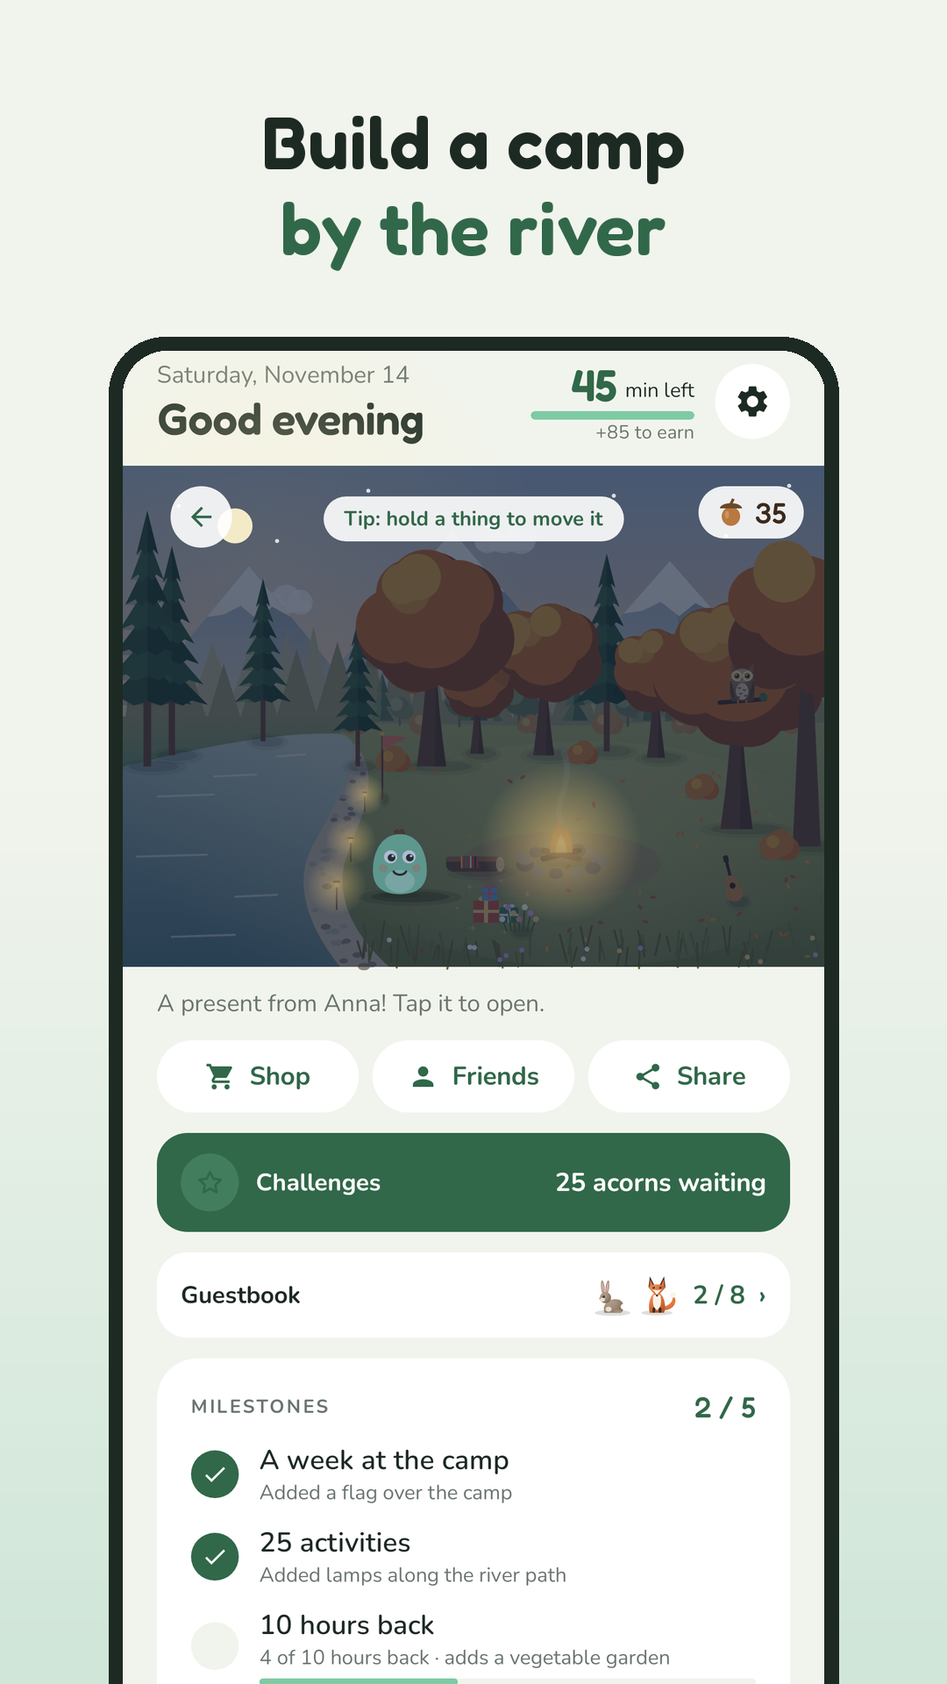
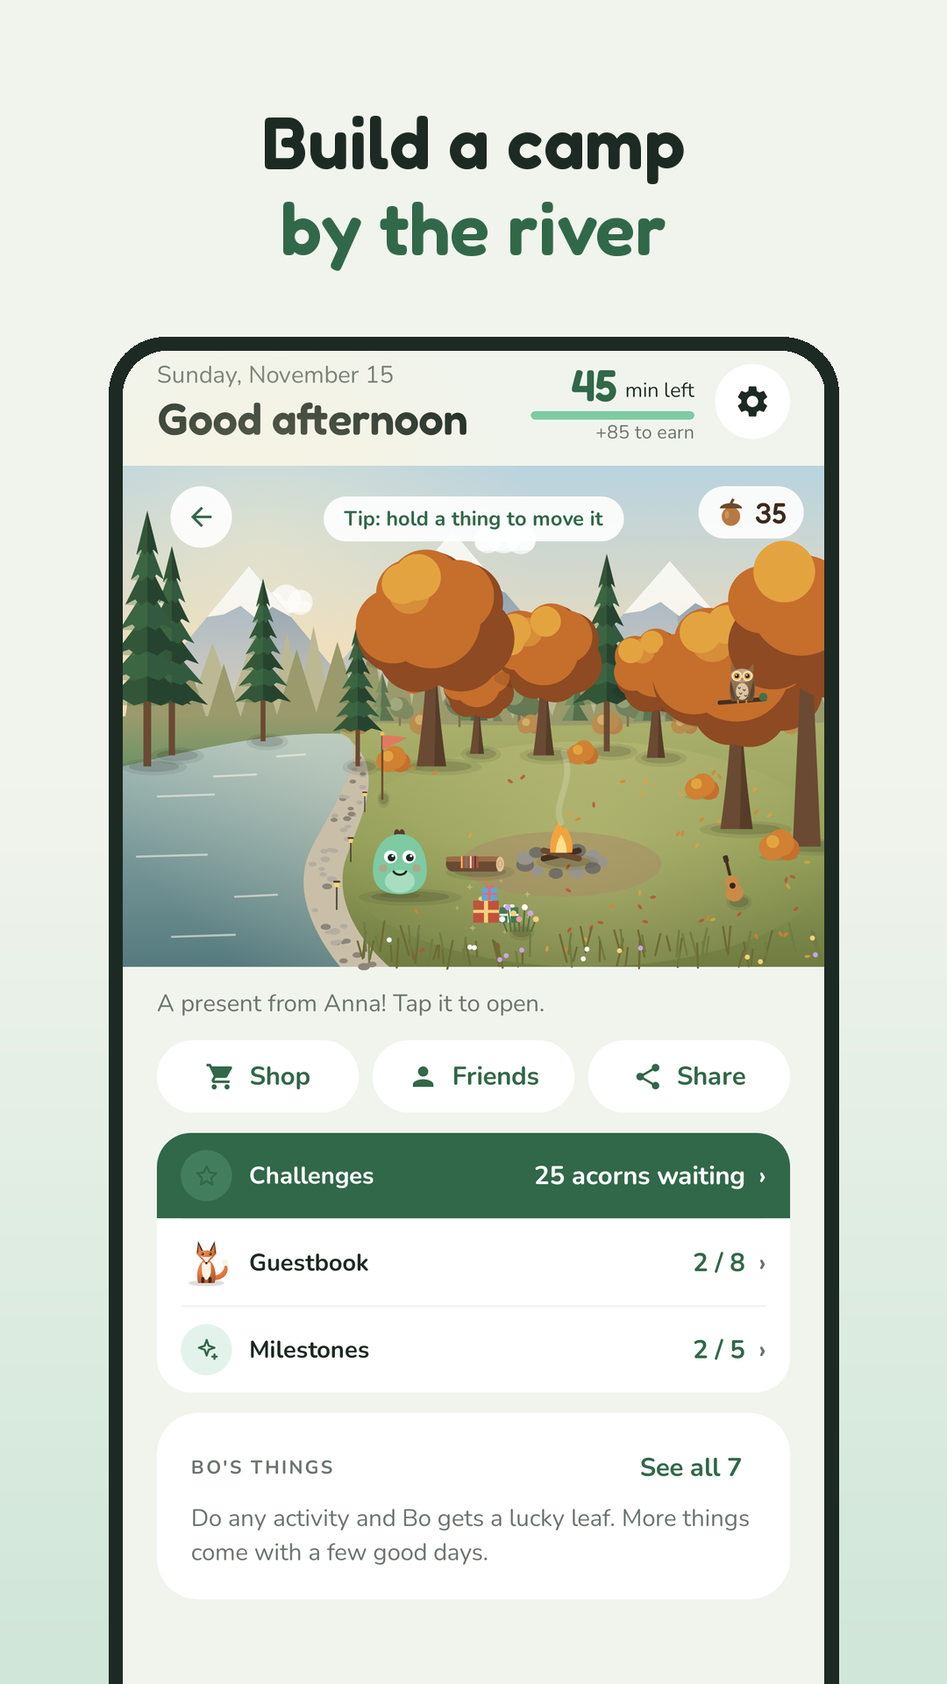
Camp: a jump onto the raft (crouch, arc, landing that rocks it); tea dipped from the kettle by the fire; no flash where Bo is headed; challenges, guestbook and milestones in one compact card; paper laid on the crowns. Week chart: tap a day for its minutes. Your time fits one screen. A timer workout 
Claude-Session: https://claude.ai/code/session_01MTi4pGbYj2mqQd4T7JQAzY

diff --git a/app/src/main/java/app/tend/ui/CampUse.kt b/app/src/main/java/app/tend/ui/CampUse.kt
@@ -284,7 +284,9 @@ fun DrawScope.useAnchor(use: InUse, placed: Map<Int, String>, here: Offset? = nu
         "act_read", "act_stretch", "act_hearts", "act_tidy", "act_cheer" -> home
         "guitar", "campfire" -> if (use.spot < 0) (if (use.thing == "campfire") fire + Offset(-u * 0.21f, u * 0.03f) else home) else
             if (use.thing == "campfire" && bench) seat + Offset(0f, -u * 0.012f) else if (use.thing == "campfire") fire + Offset(-u * 0.21f, u * 0.03f) else p
-        "kettle", "pizza_oven" ->
+        // Tea: right up to the fire, within reach of the kettle over it.
+        "kettle" -> fire + Offset(-u * 0.09f, u * 0.025f)
+        "pizza_oven" ->
             // Beside the fire pit, clear of the stones and the flames (or on the bench, if there is one).
             if (bench) seat + Offset(0f, -u * 0.012f) else fire + Offset(-u * 0.21f, u * 0.03f)
         // Fetched first: to the woodpile for a log, then over to the fire; to the rod, then to the bank.
@@ -302,7 +304,9 @@ fun DrawScope.useAnchor(use: InUse, placed: Map<Int, String>, here: Offset? = nu
         "treehouse" -> Offset(p.x + u * 0.062f, u * 0.6f - u * 0.42f * 0.4f - u * 0.004f) // on the platform, in the tree, beside the little house
         // Out on the water, and drifting back to the mooring before stepping off.
         // Pushing off from the bank, out a little and back.
-        "canoe", "raft" -> p + Offset(-(1f - kotlin.math.cos(use.t * 0.7f)) / 2f * w * 0.08f * (if (use.end > 0f) ((use.end - Uses.STEP - use.t) / 1.5f).coerceIn(0f, 1f) else 1f), -u * 0.02f)
+        // Landing on it rocks it a little (down, up, settling).
+        "canoe", "raft" -> p + Offset(-(1f - kotlin.math.cos(use.t * 0.7f)) / 2f * w * 0.08f * (if (use.end > 0f) ((use.end - Uses.STEP - use.t) / 1.5f).coerceIn(0f, 1f) else 1f),
+            -u * 0.02f + u * 0.012f * kotlin.math.exp(-use.t * 2.5f) * kotlin.math.sin(use.t * 11f))
         "rocking_chair" -> p + Offset(0f, -u * 0.012f * k)
         "wind_chimes", "bird_feeder" -> Offset(w * 0.64f, h * 0.71f)
         "dock" -> p + Offset(-u * 0.04f, u * 0.014f) // on the planks, near the end
@@ -481,9 +485,20 @@ fun DrawScope.drawUse(
                     }
                 }
                 "kettle" -> {
-                    drawRoundRect(Color(0xFF2A6F6B), hand + Offset(-u * 0.008f, -u * 0.014f), Size(u * 0.016f, u * 0.016f), CornerRadius(u * 0.003f))
-                    drawArc(Color(0xFF2A6F6B), -90f, 180f, false, hand + Offset(u * 0.005f, -u * 0.01f), Size(u * 0.01f, u * 0.008f), style = Stroke(u * 0.002f))
-                    rising(t, hand + Offset(0f, -u * 0.02f), u * 0.006f, every = 1.1f) { at, a -> drawCircle(Color.White.copy(alpha = 0.45f * a), u * 0.005f, at) }
+                    // The mug out to the kettle over the fire, dipped (tipped in, a puff of steam), back, then sipped.
+                    val mouth = fire + Offset(-u * 0.004f, -u * 0.072f)
+                    fun ease(k: Float) = k.coerceIn(0f, 1f).let { it * it * (3 - 2 * it) }
+                    val out = ease(t / 1.1f) - ease((t - 2.1f) / 0.9f)
+                    val mug = hand + (mouth - hand) * out
+                    val tip = if (t in 1.1f..2.1f) sin((t - 1.1f) * PI.toFloat()) * 55f else 0f
+                    drawLine(Color(0xFF8FD1B0), hand + Offset(-u * 0.006f, 0f), mug + Offset(-u * 0.006f, u * 0.004f), strokeWidth = u * 0.006f, cap = StrokeCap.Round) // the arm
+                    rotate(tip, mug) {
+                        drawRoundRect(Color(0xFF2A6F6B), mug + Offset(-u * 0.008f, -u * 0.014f), Size(u * 0.016f, u * 0.016f), CornerRadius(u * 0.003f))
+                        drawArc(Color(0xFF2A6F6B), -90f, 180f, false, mug + Offset(u * 0.005f, -u * 0.01f), Size(u * 0.01f, u * 0.008f), style = Stroke(u * 0.002f))
+                    }
+                    if (t in 1.3f..2.4f) for (i in 0 until 3) drawCircle(Color.White.copy(alpha = 0.5f * (1f - (t - 1.3f) / 1.1f)), u * (0.006f + i * 0.003f), mouth + Offset(u * 0.004f * i, -u * (0.02f + 0.012f * i + (t - 1.3f) * 0.02f)))
+                    if (t > 3f) rising(t, hand + Offset(0f, -u * 0.02f), u * 0.006f, every = 1.1f) { at, a -> drawCircle(Color.White.copy(alpha = 0.45f * a), u * 0.005f, at) }
+                    lights += Light(fire + Offset(0f, -u * 0.05f), u * 0.16f, 0.7f)
                 }
                 "pizza_oven" -> {
                     drawPath(Path().apply { moveTo(hand.x - u * 0.01f, hand.y); lineTo(hand.x + u * 0.018f, hand.y - u * 0.008f); lineTo(hand.x + u * 0.006f, hand.y + u * 0.016f); close() }, Color(0xFFF2C14E))
@@ -1136,18 +1151,30 @@ internal fun along(pts: List<Offset>, k: Float): Offset {
     return pts.last()
 }
 
-/** How high a hop is at [k] of the way along [pts]: on the last stretch onto the water, or the first one off it. */
-internal fun DrawScope.hop(pts: List<Offset>, k: Float): Float {
-    if (pts.size < 3) return 0f
+/**
+ * Where they are at [k] of the way along [pts], on foot: by distance, except the jump onto the water
+ * (or off it), which waits through the crouch, flies, and lands; its height taken off.
+ */
+internal fun DrawScope.walkAt(pts: List<Offset>, k: Float): Offset {
+    if (pts.size < 3) return along(pts, k)
     val lens = pts.zipWithNext { p, q -> (q - p).getDistance() }
     val total = lens.sum().coerceAtLeast(1f)
     val at = total * k.coerceIn(0f, 1f)
-    val onto = inWater(pts.last())
-    val off = inWater(pts.first())
-    val (from, len) = when {
-        onto && at >= total - lens.last() -> (total - lens.last()) to lens.last()
-        off && at <= lens.first() -> 0f to lens.first()
-        else -> return 0f
-    }
-    return kotlin.math.sin(((at - from) / len.coerceAtLeast(1f)).coerceIn(0f, 1f) * Math.PI.toFloat()) * size.height * 0.05f
+    val onto = inWater(pts.last()) && at >= total - lens.last()
+    val off = inWater(pts.first()) && at <= lens.first()
+    if (!onto && !off) return along(pts, k)
+    val (i, from) = if (onto) pts.size - 2 to total - lens.last() else 0 to 0f
+    val f = ((at - from) / lens[i].coerceAtLeast(1f)).coerceIn(0f, 1f)
+    val move = ((f - 0.18f) / 0.72f).coerceIn(0f, 1f).let { it * it * (3 - 2 * it) }
+    return pts[i] + (pts[i + 1] - pts[i]) * move - Offset(0f, jumpHeight(f, size.height))
+}
+
+/**
+ * A jump at [f] (0..1) of the way: a little crouch first (below 0: lower), then up in a high arc,
+ * and a dip as they land.
+ */
+internal fun jumpHeight(f: Float, h: Float): Float = when {
+    f < 0.18f -> -kotlin.math.sin(f / 0.18f * Math.PI.toFloat()) * h * 0.012f
+    f < 0.9f -> kotlin.math.sin((f - 0.18f) / 0.72f * Math.PI.toFloat()) * h * 0.085f
+    else -> -kotlin.math.sin((f - 0.9f) / 0.1f * Math.PI.toFloat()) * h * 0.01f
 }

diff --git a/app/src/main/java/app/tend/ui/ClearingScreen.kt b/app/src/main/java/app/tend/ui/ClearingScreen.kt
@@ -173,6 +173,7 @@ fun ClearingScreen(
     }
     var shopOpen by rememberSaveable { mutableStateOf(false) }
     var bookOpen by rememberSaveable { mutableStateOf(false) }
+    var milestonesOpen by rememberSaveable { mutableStateOf(false) }
     var collectionAt by remember { androidx.compose.runtime.mutableIntStateOf(0) }
 
     // The same header as home, settings and all (nothing moves going between them).
@@ -251,6 +252,8 @@ fun ClearingScreen(
         // Asleep in the shelter: a yawn first, on the way out.
         if (nightNow && using == null && restNow != null && restNow == bedOf(placedNow) && hit != restNow) w += Uses.YAWN
         walk = w
+        // The clock starts on the next frame: not a frame drawn on the last use's clock (they'd show up there, arrived).
+        useStart = -1L
         using = hit to thing; caught = null; Sounds.forUse(context, thing, (w * 1000).toLong()); onUsed(thing)
     }
 
@@ -658,26 +661,24 @@ fun ClearingScreen(
         Text(tr("Not now", "Most nem"), style = MaterialTheme.typography.labelLarge, color = Brand.Muted, modifier = Modifier.clip(RoundedCornerShape(10.dp)).tappable(onClick = onTownLater).padding(vertical = 6.dp))
     }
 
-    // The challenges live in one place (home's "Challenges"): here a button there, with what's waiting.
+    // Challenges, the guestbook and the milestones: one compact card, a row each; each opens over the page.
     run {
         val waiting = app.tend.core.FirstSteps.current(steps).filter { it.claimable }.sumOf { it.step.acorns }
-        Row(
-            Modifier.fillMaxWidth().clip(RoundedCornerShape(18.dp)).background(if (waiting > 0) Brand.Moss else Brand.Card).tappable(onClick = onOpenChallenges)
-                .padding(horizontal = 14.dp, vertical = 12.dp),
-            verticalAlignment = Alignment.CenterVertically,
-        ) {
-            TendIcons.Badge("star", 34.dp)
-            Spacer(Modifier.width(10.dp))
-            Text(tr("Challenges", "Kihívások"), style = MaterialTheme.typography.labelLarge.copy(fontSize = 14.sp), color = if (waiting > 0) Color.White else Brand.Ink, modifier = Modifier.weight(1f))
-            Text(if (waiting > 0) tr("$waiting acorns waiting", "$waiting makk vár") else "\u203A", style = MaterialTheme.typography.labelLarge, color = if (waiting > 0) Color.White else Brand.Muted)
+        Column(Modifier.fillMaxWidth().clip(RoundedCornerShape(20.dp)).background(Brand.Card)) {
+            HubRow({ TendIcons.Badge("star", 30.dp) }, tr("Challenges", "Kihívások"), if (waiting > 0) tr("$waiting acorns waiting", "$waiting makk vár") else null, waiting > 0, onOpenChallenges)
+            HubDivider()
+            HubRow({ Canvas(Modifier.size(30.dp)) { drawVisitorIcon(guestbook.keys.firstOrNull() ?: app.tend.core.Visitor.RABBIT, seen = guestbook.isNotEmpty()) } },
+                tr("Guestbook", "Vendégkönyv"), "${guestbook.size} / ${app.tend.core.Visitor.entries.size}", false) { bookOpen = true }
+            totals?.let { t ->
+                HubDivider()
+                HubRow({ TendIcons.Badge("sparkle", 30.dp) }, tr("Milestones", "Mérföldkövek"), "${app.tend.core.Milestone.reached(t).size} / ${app.tend.core.Milestone.entries.size}", false) { milestonesOpen = true }
+            }
         }
     }
 
     }
 
     Column(Modifier.onGloballyPositioned { collectionAt = it.positionInParent().y.toInt() }.pageBody(), verticalArrangement = Arrangement.spacedBy(Space.m)) {
-        GuestbookRow(guestbook) { bookOpen = true }
-        totals?.let { MilestonesCard(it) }
         Things(avatar, worn, onShelf, earned, onToggleAccessory)
     }
 
@@ -702,6 +703,11 @@ fun ClearingScreen(
     }
 
     // Friends: over the page, from the bottom.
+    if (milestonesOpen) totals?.let { t ->
+        androidx.compose.material3.ModalBottomSheet(onDismissRequest = { milestonesOpen = false }, containerColor = Brand.Sage) {
+            Column(Modifier.verticalScroll(rememberScrollState()).padding(horizontal = 20.dp).padding(bottom = Space.xl)) { MilestonesCard(t) }
+        }
+    }
     if (bookOpen) androidx.compose.material3.ModalBottomSheet(onDismissRequest = { bookOpen = false }, containerColor = Brand.Sage) {
         Column(Modifier.verticalScroll(rememberScrollState()).padding(horizontal = 20.dp).padding(bottom = Space.xl)) { Guestbook(guestbook) }
     }
@@ -1079,17 +1085,21 @@ private fun GreetedCard(v: app.tend.core.Visitor, book: Map<app.tend.core.Visito
     }
 }
 
-/** The guestbook, closed: how many animals came, the ones met as small icons; tap to open. */
+/** One row of the camp's compact card: an icon, a name, what's there (highlighted when something's waiting), and an arrow. */
 @Composable
-private fun GuestbookRow(book: Map<app.tend.core.Visitor, Int>, onOpen: () -> Unit) = Row(
-    Modifier.fillMaxWidth().clip(RoundedCornerShape(18.dp)).background(Brand.Card).tappable(onClick = onOpen).padding(horizontal = 14.dp, vertical = 12.dp),
+private fun HubRow(icon: @Composable () -> Unit, title: String, value: String?, highlight: Boolean, onOpen: () -> Unit) = Row(
+    Modifier.fillMaxWidth().background(if (highlight) Brand.Moss else Color.Transparent).tappable(onClick = onOpen).padding(horizontal = 14.dp, vertical = 10.dp),
     verticalAlignment = Alignment.CenterVertically,
 ) {
-    Text(tr("Guestbook", "Vendégkönyv"), style = MaterialTheme.typography.labelLarge.copy(fontSize = 14.sp), modifier = Modifier.weight(1f))
-    app.tend.core.Visitor.entries.filter { it in book }.take(4).forEach { v -> Canvas(Modifier.size(26.dp)) { drawVisitorIcon(v) } }
-    Spacer(Modifier.width(8.dp))
-    Text("${book.size} / ${app.tend.core.Visitor.entries.size}  \u203A", style = MaterialTheme.typography.labelLarge, color = Brand.Moss)
+    icon()
+    Spacer(Modifier.width(10.dp))
+    Text(title, style = MaterialTheme.typography.labelLarge.copy(fontSize = 14.sp), color = if (highlight) Color.White else Brand.Ink, modifier = Modifier.weight(1f))
+    value?.let { Text(it, style = MaterialTheme.typography.labelLarge, color = if (highlight) Color.White else Brand.Moss) }
+    Text("  \u203A", style = MaterialTheme.typography.labelLarge, color = if (highlight) Color.White else Brand.Muted)
 }
+
+@Composable
+private fun HubDivider() = Box(Modifier.fillMaxWidth().padding(horizontal = 14.dp).height(1.dp).background(Brand.Sage))
 
 /** The animals that came to the camp: seen ones in colour, the rest as shadows, four to a row. */
 @Composable

diff --git a/app/src/main/java/app/tend/ui/ClearingScene.kt b/app/src/main/java/app/tend/ui/ClearingScene.kt
@@ -301,7 +301,7 @@ fun DrawScope.drawClearing(
         fromBed -> useAnchor(InUse(bedSpot!!, placed.getValue(bedSpot), 100f), placed, layout = layout)
         restWas == null || restClock >= Uses.WALK -> restTo
         restClock <= 0f -> restWas
-        else -> { val k = (restClock / Uses.WALK).let { it * it * (3 - 2 * it) }; val way = route(restWas, restTo, placed, layout); along(way, k) - Offset(0f, hop(way, k)) }
+        else -> { val k = (restClock / Uses.WALK).let { it * it * (3 - 2 * it) }; walkAt(route(restWas, restTo, placed, layout), k) }
     }
     val target = act?.let { useAnchor(it.arrived(), placed, restAt, layout) }
     val walking = act?.walking == true
@@ -385,12 +385,11 @@ fun DrawScope.drawClearing(
         target == null -> restAt
         walking -> {
             val k = (if (fromBed) ((act!!.t - Uses.YAWN) / (act.walk - Uses.YAWN).coerceAtLeast(0.01f)).coerceIn(0f, 1f) else act!!.t / act.walk).let { it * it * (3 - 2 * it) }
-            val way = route(restAt, target, placed, layout)
-            along(way, k) - Offset(0f, hop(way, k))
+            walkAt(route(restAt, target, placed, layout), k)
         }
         // Out of the canoe: a hop onto the bank.
-        stepTo != null -> target + (stepTo - target) * stepK.coerceAtMost(1f).let { it * it * (3 - 2 * it) } -
-            Offset(0f, if (act.thing == "canoe" || act.thing == "raft") kotlin.math.sin(stepK.coerceAtMost(1f) * Math.PI.toFloat()) * u * 0.07f else 0f)
+        stepTo != null -> target + (stepTo - target) * ((stepK.coerceAtMost(1f) - 0.18f) / 0.72f).coerceIn(0f, 1f).let { it * it * (3 - 2 * it) } -
+            Offset(0f, if (act.thing == "canoe" || act.thing == "raft") jumpHeight(stepK.coerceAtMost(1f), h) else 0f)
         else -> target
     }
     var companionDrawn = false
@@ -953,23 +952,31 @@ private fun DrawScope.paperRoll(c: Offset, r: Float, angle: Float) {
 private fun DrawScope.toiletPaper(amount: Float) {
     val w = size.width
     val h = size.height
-    fun o(x: Float, y: Float) = Offset(w * x, h * y)
     val band = h * 0.016f
     val a = amount.coerceIn(0f, 1f)
     val fade = (a * 1.6f).coerceAtMost(1f)
-    // Two soft drapes sagging over the crown (behind the strands).
-    ribbon(o(0.85f, 0.25f), o(0.875f, 0.34f), o(0.93f, 0.35f), o(0.96f, 0.24f), band, 1.2f, a, fade)
-    ribbon(o(0.905f, 0.3f), o(0.935f, 0.42f), o(0.985f, 0.42f), o(1.01f, 0.31f), band, 1.4f, a, fade)
-    // Strands hanging from the branches, each with its own gentle S, longest nearly to the grass.
-    ribbon(o(0.858f, 0.32f), o(0.872f, 0.42f), o(0.848f, 0.5f), o(0.862f, 0.6f), band, 2.2f, a, fade)
-    ribbon(o(0.932f, 0.4f), o(0.92f, 0.5f), o(0.945f, 0.58f), o(0.93f, 0.69f), band, 2.6f, a, fade)
-    ribbon(o(0.985f, 0.41f), o(0.995f, 0.48f), o(0.975f, 0.53f), o(0.99f, 0.6f), band, 1.6f, a, fade)
+    // Laid on the crowns themselves (the round tree and the broadleaf on the right), in scene heights
+    // from their middles, so it stays on the trees whatever the screen's shape.
+    val c1 = Offset(w * 0.875f, h * 0.4f); val r1 = h * 0.14f
+    val c2 = Offset(w * 0.975f, h * 0.3f); val r2 = h * 0.15f
+    fun at(c: Offset, r: Float, x: Float, y: Float) = c + Offset(r * x, r * y)
+    fun strand(top: Offset, len: Float, sway: Float, twists: Float) =
+        ribbon(top, top + Offset(sway, len / 3), top + Offset(-sway, len * 2 / 3), top + Offset(sway * 0.3f, len), band, twists, a, fade)
+    // Drapes over each crown, and a garland from one to the other.
+    ribbon(at(c1, r1, -0.8f, -0.45f), at(c1, r1, -0.35f, 0.15f), at(c1, r1, 0.35f, 0.1f), at(c1, r1, 0.75f, -0.55f), band, 1.2f, a, fade)
+    ribbon(at(c2, r2, -0.8f, -0.2f), at(c2, r2, -0.4f, 0.35f), at(c2, r2, 0.1f, 0.3f), at(c2, r2, 0.45f, -0.45f), band, 1.4f, a, fade)
+    ribbon(at(c1, r1, 0.55f, 0.25f), at(c1, r1, 0.9f, 0.85f), at(c2, r2, -0.7f, 0.95f), at(c2, r2, -0.45f, 0.5f), band, 2f, a, fade)
+    // Strands from under the crowns, not past their edges.
+    strand(at(c1, r1, -0.45f, 0.55f), h * 0.13f, h * 0.012f, 2.2f)
+    strand(at(c1, r1, 0.3f, 0.65f), h * 0.18f, h * 0.01f, 2.6f)
+    strand(at(c2, r2, -0.2f, 0.7f), h * 0.15f, h * 0.012f, 1.8f)
     // A roll caught in the crown.
-    if (a > 0.5f) paperRoll(o(0.935f, 0.27f), h * 0.016f, -25f)
+    if (a > 0.5f) paperRoll(at(c2, r2, 0.05f, -0.25f), h * 0.016f, -25f)
     // And one that rolled away over the grass, unrolling as it went.
     if (a > 0.3f) {
-        ribbon(o(0.985f, 0.775f), o(0.975f, 0.795f), o(0.955f, 0.79f), o(0.94f, 0.805f), band * 0.9f, 1f, a, fade)
-        paperRoll(o(0.93f, 0.8f), h * 0.015f, 8f)
+        val g = Offset(w * 0.93f, h * 0.8f)
+        ribbon(g + Offset(h * 0.07f, -h * 0.025f), g + Offset(h * 0.06f, -h * 0.005f), g + Offset(h * 0.035f, -h * 0.01f), g + Offset(h * 0.012f, h * 0.005f), band * 0.9f, 1f, a, fade)
+        paperRoll(g, h * 0.015f, 8f)
     }
 }
 

diff --git a/app/src/main/java/app/tend/ui/WeekCard.kt b/app/src/main/java/app/tend/ui/WeekCard.kt
@@ -3,6 +3,10 @@ package app.tend.ui
 import app.tend.core.tr
 
 import androidx.compose.foundation.Canvas
+import androidx.compose.foundation.gestures.detectTapGestures
+import androidx.compose.runtime.getValue
+import androidx.compose.runtime.setValue
+import androidx.compose.ui.input.pointer.pointerInput
 import androidx.compose.foundation.layout.Arrangement
 import androidx.compose.foundation.layout.Row
 import androidx.compose.foundation.layout.Spacer
@@ -31,14 +35,27 @@ import kotlin.math.abs
  */
 @Composable
 fun WeekCard(view: WeekView, onOpen: (() -> Unit)? = null, total: List<Int?> = emptyList()) = Card(if (onOpen != null) Modifier.tappable(onClick = onOpen) else Modifier) {
+    // A day tapped: its own minutes in the corner instead of the average (tapped again: back).
+    var picked by androidx.compose.runtime.remember { androidx.compose.runtime.mutableStateOf<Int?>(null) }
+    val all = view.days.indices.map { total.getOrNull(it - view.days.size + total.size) }
     Row {
         Text(tr("YOUR WEEK", "A HETED"), style = MaterialTheme.typography.labelSmall, modifier = Modifier.weight(1f))
-        view.average?.let { Text(tr("avg $it min a day", "átlag napi $it perc"), style = MaterialTheme.typography.labelLarge, color = Brand.Moss) }
+        val p = picked
+        if (p != null) {
+            val day = if (p == 6) tr("Today", "Ma") else java.time.LocalDate.now().minusDays((6 - p).toLong()).dayOfWeek.getDisplayName(TextStyle.FULL, app.tend.core.Lang.locale).replaceFirstChar { it.uppercase() }
+            val used = view.days[p]?.usedMinutes
+            val whole = all[p]
+            Text(
+                "$day: " + (used?.let { tr("$it min", "$it perc") } ?: "–") + (whole?.let { tr(" · all $it", " · összesen $it") } ?: ""),
+                style = MaterialTheme.typography.labelLarge, color = Brand.Moss,
+            )
+        } else view.average?.let { Text(tr("avg $it min a day", "átlag napi $it perc"), style = MaterialTheme.typography.labelLarge, color = Brand.Moss) }
     }
     // A little headroom above the tallest bar or mark.
-    val all = view.days.indices.map { total.getOrNull(it - view.days.size + total.size) }
     val top = 1.15f * (view.days.indices.maxOfOrNull { i -> maxOf(all[i] ?: 0, view.days[i]?.let { it.usedMinutes + it.unusedMinutes } ?: 0) }?.coerceAtLeast(30) ?: 30)
-    Canvas(Modifier.fillMaxWidth().height(96.dp)) {
+    Canvas(Modifier.fillMaxWidth().height(96.dp).pointerInput(Unit) {
+        detectTapGestures { o -> val i = (o.x / (size.width / 7f)).toInt().coerceIn(0, 6); picked = if (picked == i) null else i }
+    }) {
         val slot = size.width / 7
         val bar = slot * 0.46f
         view.days.forEachIndexed { i, d ->
@@ -57,7 +74,7 @@ fun WeekCard(view: WeekView, onOpen: (() -> Unit)? = null, total: List<Int?> = e
             val over = d.unusedMinutes == 0 && d.usedMinutes > 0
             val h = (size.height * d.usedMinutes / top).coerceAtLeast(3.dp.toPx())
             drawRoundRect(
-                (if (over) Brand.Coral else Brand.Moss).copy(alpha = if (i == 6) 1f else 0.8f),
+                (if (over) Brand.Coral else Brand.Moss).copy(alpha = if (i == (picked ?: 6)) 1f else 0.7f),
                 Offset(x, size.height - h), Size(bar, h), CornerRadius(4.dp.toPx()),
             )
             if (!over) {

diff --git a/app/src/main/java/app/tend/ui/InsightsScreen.kt b/app/src/main/java/app/tend/ui/InsightsScreen.kt
@@ -58,8 +58,9 @@ class AppTime(val label: String, val icon: ImageBitmap?, val before: Int, val no
  */
 @Composable
 fun InsightsScreen(insights: Insights, apps: List<AppTime>, plus: Boolean = true, onPlus: () -> Unit = {}, onBack: () -> Unit) = Column(
-    Modifier.fillMaxSize().background(Brand.Sage).verticalScroll(rememberScrollState()).padding(horizontal = 20.dp).padding(top = Space.xs, bottom = Space.xxl),
-    verticalArrangement = Arrangement.spacedBy(Space.m),
+    // Compact enough to fit one screen (it scrolls only on small phones).
+    Modifier.fillMaxSize().background(Brand.Sage).verticalScroll(rememberScrollState()).padding(horizontal = 20.dp).padding(top = Space.xs, bottom = Space.m),
+    verticalArrangement = Arrangement.spacedBy(Space.s),
 ) {
     Row(verticalAlignment = Alignment.CenterVertically) {
         IconButtonSoft(androidx.compose.material.icons.Icons.AutoMirrored.Filled.ArrowBack, tr("Back", "Vissza"), onBack)
@@ -189,7 +190,7 @@ private fun WeeksChart(insights: Insights) {
     val moss = Brand.Moss
     val faint = Brand.Mint
     Canvas(
-        Modifier.fillMaxWidth().height(150.dp).pointerInput(weeks.size) {
+        Modifier.fillMaxWidth().height(120.dp).pointerInput(weeks.size) {
             detectTapGestures { at -> picked = (at.x / (size.width / weeks.size)).toInt().coerceIn(0, weeks.lastIndex) }
         },
     ) {

diff --git a/app/src/main/java/app/tend/core/Recap.kt b/app/src/main/java/app/tend/core/Recap.kt
@@ -34,7 +34,8 @@ data class Recap(
                 gotBackMinutes = unused,
                 tonightAcorns = Budget.usedMinutes(day).let { used -> Acorns.atDayClose(used, Budget.remainingMinutes(cfg, day) + used, normalMinutes) },
                 steps = day.steps,
-                exerciseMinutes = day.exerciseMinutes,
+                // A workout done on the timer counts too, not only what Health Connect recorded.
+                exerciseMinutes = if (Tasks.MOVE.id in day.completedTasks) maxOf(day.exerciseMinutes, Tasks.MOVE.target) else day.exerciseMinutes,
                 readingMinutes = listOf(Tasks.READ, Tasks.LEARN).filter { it.id in day.completedTasks }.sumOf { it.target },
                 worthItAnswers = answers.size,
                 notWorthIt = not.size,
